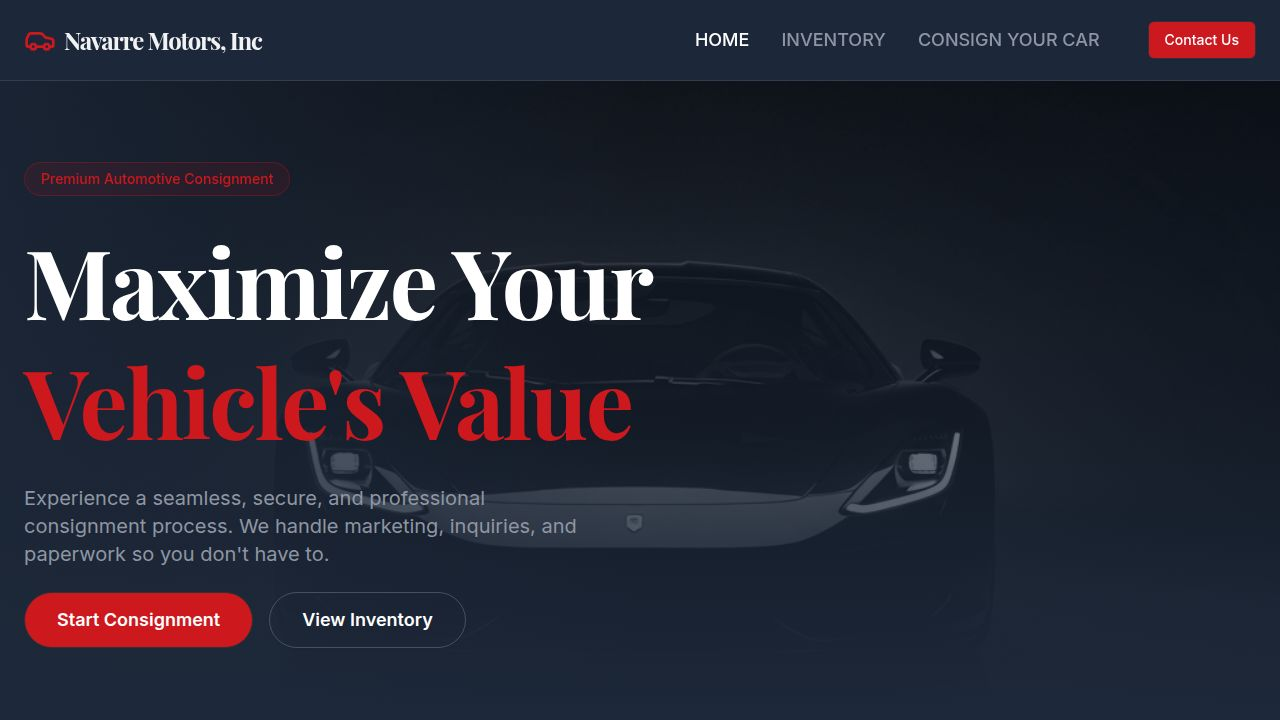
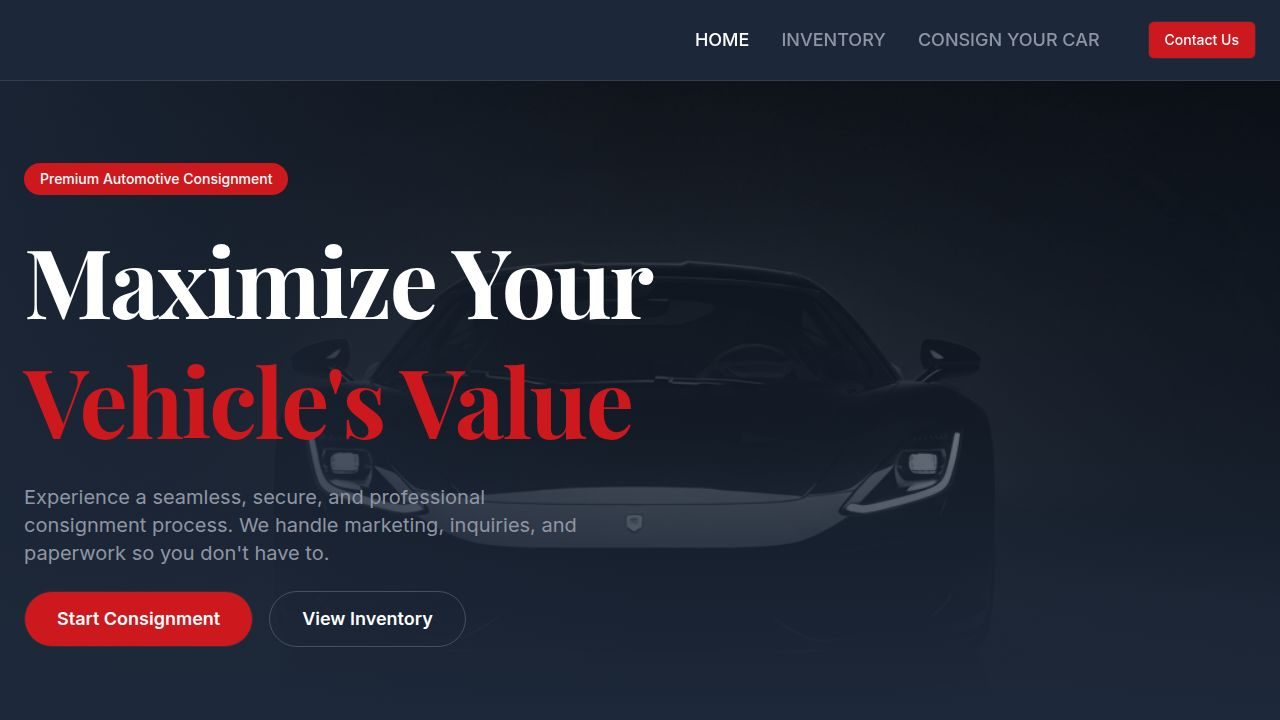
Update website appearance and customization options for better branding
Modify the hero banner background, footer link colors, and introduce customizable colors for home page consignment steps, while also ensuring featured inventory text is white.

Replit-Commit-Author: Agent
Replit-Commit-Session-Id: 5850de85-d65f-47e1-a5df-7dcf8fdcb0a9
Replit-Commit-Checkpoint-Type: intermediate_checkpoint
Replit-Commit-Event-Id: cf452cbe-da29-4ac4-9f21-a620dddad56f
Replit-Commit-Screenshot-Url: https://storage.googleapis.com/screenshot-production-us-central1/ebc5af6f-0285-48bb-9e97-3215c1c831bc/5850de85-d65f-47e1-a5df-7dcf8fdcb0a9/9pAdvFZ
Replit-Helium-Checkpoint-Created: true

diff --git a/client/src/pages/Admin.tsx b/client/src/pages/Admin.tsx
@@ -161,6 +161,8 @@ function SettingsPanel({ onRegisterSave }: { onRegisterSave: (handler: { save: (
   const [menuAllCaps, setMenuAllCaps] = useState(true);
   const [vehicleTitleColor, setVehicleTitleColor] = useState("#FFFFFF");
   const [vehiclePriceColor, setVehiclePriceColor] = useState("#FFFFFF");
+  const [stepBgColor, setStepBgColor] = useState("#DC2626");
+  const [stepNumberColor, setStepNumberColor] = useState("#FFFFFF");
   const [footerTagline, setFooterTagline] = useState("");
   const [logoUrl, setLogoUrl] = useState("");
   const [logoWidth, setLogoWidth] = useState("120");
@@ -196,6 +198,8 @@ function SettingsPanel({ onRegisterSave }: { onRegisterSave: (handler: { save: (
       setMenuAllCaps(settings.menuAllCaps !== false);
       setVehicleTitleColor(settings.vehicleTitleColor || "#FFFFFF");
       setVehiclePriceColor(settings.vehiclePriceColor || "#FFFFFF");
+      setStepBgColor(settings.stepBgColor || "#DC2626");
+      setStepNumberColor(settings.stepNumberColor || "#FFFFFF");
       setFooterTagline(settings.footerTagline || "");
       setLogoUrl(settings.logoUrl || "");
       setLogoWidth(settings.logoWidth || "120");
@@ -229,6 +233,8 @@ function SettingsPanel({ onRegisterSave }: { onRegisterSave: (handler: { save: (
           menuAllCaps,
           vehicleTitleColor,
           vehiclePriceColor,
+          stepBgColor,
+          stepNumberColor,
           footerTagline: footerTagline || null,
           logoUrl: logoUrl || null,
           logoWidth: logoWidth || "120",
@@ -687,6 +693,70 @@ function SettingsPanel({ onRegisterSave }: { onRegisterSave: (handler: { save: (
             data-testid="button-save-vehicle-details"
           >
             {updateMutation.isPending ? "Saving..." : "Save Vehicle Details"}
+          </Button>
+        </CardFooter>
+      </Card>
+
+      {/* Home Page Section */}
+      <Card>
+        <CardHeader>
+          <CardTitle className="flex items-center gap-2">
+            <Palette className="h-5 w-5" /> Home Page
+          </CardTitle>
+          <CardDescription>Customize home page consignment step colors</CardDescription>
+        </CardHeader>
+        <CardContent className="space-y-4">
+          <div className="grid gap-4 md:grid-cols-2">
+            <div className="space-y-2">
+              <Label>Step Background Color</Label>
+              <div className="flex items-center gap-2">
+                <Input
+                  type="color"
+                  value={stepBgColor}
+                  onChange={(e) => setStepBgColor(e.target.value)}
+                  className="h-10 w-14 p-1 cursor-pointer"
+                  data-testid="input-step-bg-color-picker"
+                />
+                <Input
+                  value={stepBgColor}
+                  onChange={(e) => setStepBgColor(e.target.value)}
+                  placeholder="#DC2626"
+                  className="flex-1"
+                  data-testid="input-step-bg-color-hex"
+                />
+              </div>
+              <p className="text-xs text-muted-foreground">Background color for steps 1, 2, 3</p>
+            </div>
+
+            <div className="space-y-2">
+              <Label>Step Number Color</Label>
+              <div className="flex items-center gap-2">
+                <Input
+                  type="color"
+                  value={stepNumberColor}
+                  onChange={(e) => setStepNumberColor(e.target.value)}
+                  className="h-10 w-14 p-1 cursor-pointer"
+                  data-testid="input-step-number-color-picker"
+                />
+                <Input
+                  value={stepNumberColor}
+                  onChange={(e) => setStepNumberColor(e.target.value)}
+                  placeholder="#FFFFFF"
+                  className="flex-1"
+                  data-testid="input-step-number-color-hex"
+                />
+              </div>
+              <p className="text-xs text-muted-foreground">Color for the step numbers</p>
+            </div>
+          </div>
+        </CardContent>
+        <CardFooter>
+          <Button 
+            onClick={() => updateMutation.mutate()} 
+            disabled={updateMutation.isPending}
+            data-testid="button-save-home-page"
+          >
+            {updateMutation.isPending ? "Saving..." : "Save Home Page"}
           </Button>
         </CardFooter>
       </Card>

diff --git a/client/src/components/layout/Footer.tsx b/client/src/components/layout/Footer.tsx
@@ -15,11 +15,17 @@ export function Footer() {
           <div className="space-y-4">
             <Link href="/" className="flex items-center gap-2 font-serif text-xl font-bold">
               {settings?.logoUrl ? (
-                <img src={settings.logoUrl} alt={siteName} className="h-6 w-auto" />
+                <img 
+                  src={settings.logoUrl} 
+                  alt={siteName} 
+                  style={{ width: `${Math.min(parseInt(settings.logoWidth || '120'), 150)}px`, height: 'auto' }}
+                />
               ) : (
-                <Car className="h-6 w-6 text-primary" />
+                <>
+                  <Car className="h-6 w-6 text-primary" />
+                  <span>{siteName}</span>
+                </>
               )}
-              <span>{siteName}</span>
             </Link>
             <p className="text-sm text-muted-foreground">
               {settings?.footerTagline || "Luxury automotive consignment services for discerning collectors and enthusiasts."}
@@ -28,11 +34,11 @@ export function Footer() {
           
           <div>
             <h3 className="mb-4 text-sm font-semibold uppercase tracking-wider text-foreground">Navigation</h3>
-            <ul className="space-y-2 text-sm text-muted-foreground">
-              <li><Link href="/" className="hover:text-primary">Home</Link></li>
-              <li><Link href="/inventory" className="hover:text-primary">Inventory</Link></li>
-              <li><Link href="/consign" className="hover:text-primary">Consign Your Car</Link></li>
-              <li><a href="#" className="hover:text-primary">About Us</a></li>
+            <ul className="space-y-2 text-sm">
+              <li><Link href="/" className="nav-link-inactive hover:nav-link">Home</Link></li>
+              <li><Link href="/inventory" className="nav-link-inactive hover:nav-link">Inventory</Link></li>
+              <li><Link href="/consign" className="nav-link-inactive hover:nav-link">Consign Your Car</Link></li>
+              <li><a href="#" className="nav-link-inactive hover:nav-link">About Us</a></li>
             </ul>
           </div>
 

diff --git a/client/src/pages/Home.tsx b/client/src/pages/Home.tsx
@@ -41,7 +41,13 @@ export default function Home() {
               { title: "Global Exposure", desc: "Your vehicle is marketed to our exclusive network of qualified buyers worldwide." }
             ].map((step, i) => (
               <div key={i} className="flex flex-col items-center text-center">
-                <div className="mb-6 flex h-16 w-16 items-center justify-center rounded-full bg-primary/10 text-2xl font-bold text-primary">
+                <div 
+                  className="mb-6 flex h-16 w-16 items-center justify-center rounded-full text-2xl font-bold"
+                  style={{ 
+                    backgroundColor: 'var(--step-bg-color, #DC2626)', 
+                    color: 'var(--step-number-color, #FFFFFF)' 
+                  }}
+                >
                   {i + 1}
                 </div>
                 <h3 className="mb-3 font-serif text-xl font-semibold">{step.title}</h3>
@@ -81,7 +87,7 @@ export default function Home() {
                     </div>
                   </div>
                   <div className="p-6">
-                    <div className="mb-2 text-sm font-medium text-primary">{car.year} {car.make}</div>
+                    <div className="mb-2 text-sm font-medium text-white">{car.year} {car.make}</div>
                     <h3 className="mb-4 font-serif text-2xl font-bold">{car.model}</h3>
                     <div className="flex items-center justify-between border-t border-border pt-4">
                       <span className="text-muted-foreground">{car.mileage.toLocaleString()} miles</span>

diff --git a/client/src/contexts/SettingsContext.tsx b/client/src/contexts/SettingsContext.tsx
@@ -72,7 +72,13 @@ export function SettingsProvider({ children }: { children: ReactNode }) {
     if (settings?.vehiclePriceColor) {
       document.documentElement.style.setProperty("--vehicle-price-color", settings.vehiclePriceColor);
     }
-  }, [settings?.primaryColor, settings?.backgroundColor, settings?.mainMenuColor, settings?.mainMenuHoverColor, settings?.contactButtonColor, settings?.contactButtonHoverColor, settings?.menuFontSize, settings?.bodyFontSize, settings?.menuAllCaps, settings?.vehicleTitleColor, settings?.vehiclePriceColor]);
+    if (settings?.stepBgColor) {
+      document.documentElement.style.setProperty("--step-bg-color", settings.stepBgColor);
+    }
+    if (settings?.stepNumberColor) {
+      document.documentElement.style.setProperty("--step-number-color", settings.stepNumberColor);
+    }
+  }, [settings?.primaryColor, settings?.backgroundColor, settings?.mainMenuColor, settings?.mainMenuHoverColor, settings?.contactButtonColor, settings?.contactButtonHoverColor, settings?.menuFontSize, settings?.bodyFontSize, settings?.menuAllCaps, settings?.vehicleTitleColor, settings?.vehiclePriceColor, settings?.stepBgColor, settings?.stepNumberColor]);
 
   return (
     <SettingsContext.Provider value={{ settings: settings || null, isLoading }}>

diff --git a/shared/schema.ts b/shared/schema.ts
@@ -98,6 +98,8 @@ export const siteSettings = pgTable("site_settings", {
   menuAllCaps: boolean("menu_all_caps").default(true),
   vehicleTitleColor: text("vehicle_title_color").default("#FFFFFF"),
   vehiclePriceColor: text("vehicle_price_color").default("#FFFFFF"),
+  stepBgColor: text("step_bg_color").default("#DC2626"),
+  stepNumberColor: text("step_number_color").default("#FFFFFF"),
   footerTagline: text("footer_tagline").default("Luxury automotive consignment services for discerning collectors and enthusiasts."),
   logoUrl: text("logo_url"),
   logoWidth: text("logo_width").default("120"),

diff --git a/client/src/components/home/Hero.tsx b/client/src/components/home/Hero.tsx
@@ -25,7 +25,7 @@ export function Hero() {
           transition={{ duration: 0.8 }}
           className="max-w-3xl space-y-6"
         >
-          <div className="inline-block rounded-full border border-primary/30 bg-primary/10 px-4 py-1.5 text-sm font-medium text-primary backdrop-blur-sm">
+          <div className="inline-block rounded-full bg-primary px-4 py-1.5 text-sm font-medium text-white">
             Premium Automotive Consignment
           </div>
           <h1 className="font-serif text-5xl font-bold leading-tight tracking-tight text-white md:text-7xl lg:text-8xl">
